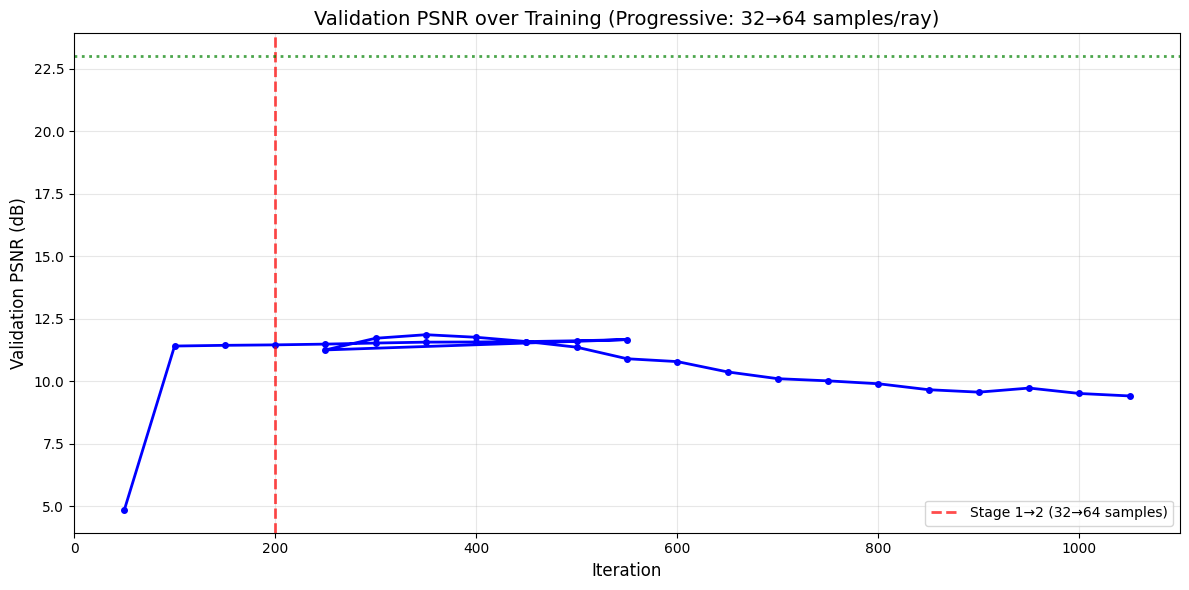
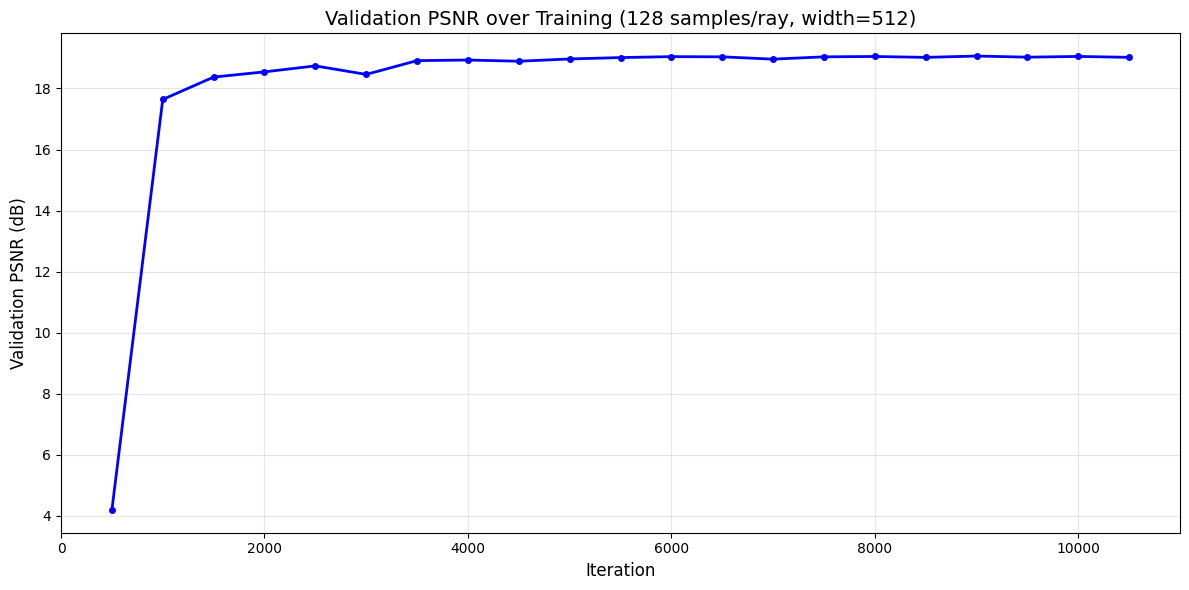
2.6

diff --git a/src/pages/Project4.tsx b/src/pages/Project4.tsx
@@ -439,11 +439,12 @@ const Project4 = () => {
                     className="w-full h-full object-cover"
                   />
                   <div className="absolute inset-0 bg-gradient-to-t from-black/40 via-transparent opacity-0 group-hover:opacity-100 transition-opacity" />
-                  <div className="absolute bottom-3 left-3 text-sm text-white font-medium">Fox – Original</div>
+                  <div className="absolute bottom-3 left-3 text-sm text-white font-medium">Fox – Reference Image</div>
                   <div className="absolute top-3 right-3 opacity-0 group-hover:opacity-100 transition-opacity">
                     <Maximize2 className="h-5 w-5 text-white drop-shadow" />
                   </div>
                 </div>
+
                 <div
                   className="relative rounded-xl overflow-hidden border bg-card/30 cursor-pointer group"
                   onClick={() => setFullscreenImage(goldenGateOriginal)}
@@ -451,52 +452,11 @@ const Project4 = () => {
                 >
                   <img
                     src={goldenGateOriginal}
-                    alt="Original Golden Gate image"
+                    alt="Original Golden Gate Bridge image"
                     className="w-full h-full object-cover"
                   />
                   <div className="absolute inset-0 bg-gradient-to-t from-black/40 via-transparent opacity-0 group-hover:opacity-100 transition-opacity" />
-                  <div className="absolute bottom-3 left-3 text-sm text-white font-medium">Golden Gate – Original</div>
-                  <div className="absolute top-3 right-3 opacity-0 group-hover:opacity-100 transition-opacity">
-                    <Maximize2 className="h-5 w-5 text-white drop-shadow" />
-                  </div>
-                </div>
-              </div>
-            </div>
-
-            <div>
-              <h3 className="text-xl font-semibold text-gray-900 mb-4">Training Progression</h3>
-              <p className="text-gray-700 mb-6">
-                Snapshots every few hundred steps show the network gradually filling in color and detail for both scenes.
-              </p>
-              <div className="space-y-6">
-                <div
-                  className="relative rounded-xl overflow-hidden border bg-card/30 cursor-pointer group"
-                  onClick={() => setFullscreenImage(foxProgression)}
-                  title="Click to view fullscreen"
-                >
-                  <img
-                    src={foxProgression}
-                    alt="Training progression for fox image"
-                    className="w-full h-full object-cover"
-                  />
-                  <div className="absolute inset-0 bg-gradient-to-t from-black/40 via-transparent opacity-0 group-hover:opacity-100 transition-opacity" />
-                  <div className="absolute bottom-3 left-3 text-sm text-white font-medium">Fox – Training Steps</div>
-                  <div className="absolute top-3 right-3 opacity-0 group-hover:opacity-100 transition-opacity">
-                    <Maximize2 className="h-5 w-5 text-white drop-shadow" />
-                  </div>
-                </div>
-                <div
-                  className="relative rounded-xl overflow-hidden border bg-card/30 cursor-pointer group"
-                  onClick={() => setFullscreenImage(goldenGateProgression)}
-                  title="Click to view fullscreen"
-                >
-                  <img
-                    src={goldenGateProgression}
-                    alt="Training progression for Golden Gate image"
-                    className="w-full h-full object-cover"
-                  />
-                  <div className="absolute inset-0 bg-gradient-to-t from-black/40 via-transparent opacity-0 group-hover:opacity-100 transition-opacity" />
-                  <div className="absolute bottom-3 left-3 text-sm text-white font-medium">Golden Gate – Training Steps</div>
+                  <div className="absolute bottom-3 left-3 text-sm text-white font-medium">Golden Gate – Reference Image</div>
                   <div className="absolute top-3 right-3 opacity-0 group-hover:opacity-100 transition-opacity">
                     <Maximize2 className="h-5 w-5 text-white drop-shadow" />
                   </div>
@@ -683,7 +643,6 @@ const Project4 = () => {
                     <Maximize2 className="h-5 w-5 text-white drop-shadow" />
                   </div>
                 </div>
-
                 <div
                   className="relative rounded-xl overflow-hidden border bg-card/30 cursor-pointer group"
                   onClick={() => setFullscreenImage(raySingleSampleVis)}
@@ -772,24 +731,24 @@ const Project4 = () => {
             <div id="part2-6">
               <h3 className="text-xl font-semibold text-gray-900 mb-4">Part 2.6: Training with your own data</h3>
               <p className="text-gray-700 mb-4 leading-relaxed">
-                After validating on the Lego splits, I reused the same dataloading, sampling, and rendering stack on my captured lafufu scene. Running the TAs' recommended configuration (num_samples&nbsp;64, near&nbsp;0.02, far&nbsp;0.5, batch_size&nbsp;10k, lr&nbsp;5e-4, 10k iters) never pushed PSNR past ~11&nbsp;dB, so the reconstruction stayed soft despite the full schedule.
+                After validating on the Lego splits, I reused the same dataloading, sampling, and rendering stack on my captured baseball cap pictures. Doubling the per-ray samples to 128 and tightening the near/far planes to match the tabletop helped stabilize training, and sticking with the original (still slightly distorted) iPhone images worked better than COLMAP's undistorted exports. Even with those tweaks, PSNR shot up to ~19&nbsp;dB almost immediately and then flattened.
               </p>
               <div className="bg-white border rounded-xl p-6 shadow-sm mb-8">
                 <h4 className="text-lg font-semibold text-gray-900 mb-3">Training configuration</h4>
                 <ul className="space-y-2 text-gray-700 list-disc list-inside">
-                  <li>Device autodetect: MPS first, otherwise CUDA, else CPU fallback.</li>
-                  <li>num_samples = 64, near = 0.02, far = 0.5 ⇒ step_size = (far − near) / num_samples.</li>
-                  <li>batch_size = 10,000 rays, learning_rate = 5e-4 (Adam), num_iters = 10,000.</li>
-                  <li>chunk_size = 2,048 on MPS (4,096 otherwise) to respect unified memory limits.</li>
+                  <li>num_samples = 128 (double the baseline 64) for higher-frequency detail.</li>
+                  <li>near = 0.35, far = 0.6 to tightly bracket the baseball cap scene.</li>
+                  <li>batch_size = 10,000 rays, learning_rate = 5e-4 (Adam), num_iters = 40,000.</li>
+                  <li>Kept the model width at 512 and trained on the original (distorted) images which reconstructed better than the undistorted set.</li>
                 </ul>
               </div>
 
               <div className="bg-white border rounded-xl p-6 shadow-sm mb-8">
                 <h4 className="text-lg font-semibold text-gray-900 mb-3">Debugging attempts</h4>
                 <ul className="space-y-2 text-gray-700 list-disc list-inside">
-                  <li>Progressive training: begin with fewer samples/rays for quick feedback before scaling to the full 64-sample run.</li>
-                  <li>Adapted near/far bounds on the density of the scene.</li>
-                  <li>Extended iteration counts beyond 10k and adjusted learning-rate schedules, but PSNR still plateaued near 11&nbsp;dB.</li>
+                  <li>Progressive ramps from 32/64 samples up to 128 confirmed the higher sample count was stable.</li>
+                  <li>Iterated on near/far until 0.35–0.6 consistently minimized fogging without clipping the brim.</li>
+                  <li>Even long 10k-iteration runs plateaued near 19&nbsp;dB, suggesting more data or capture refinement is needed.</li>
                 </ul>
               </div>
 
@@ -831,6 +790,7 @@ const Project4 = () => {
 
               <div className="space-y-4">
                 <p className="text-gray-700 leading-relaxed">
+                  Despite the early 19&nbsp;dB plateau, both the intermediate checkpoints and the final orbit render still trace out the cap cleanly; geometry reads well even if the textures stay a bit soft.
                 </p>
                 <div className="relative rounded-xl overflow-hidden border bg-card/30">
                   <img
